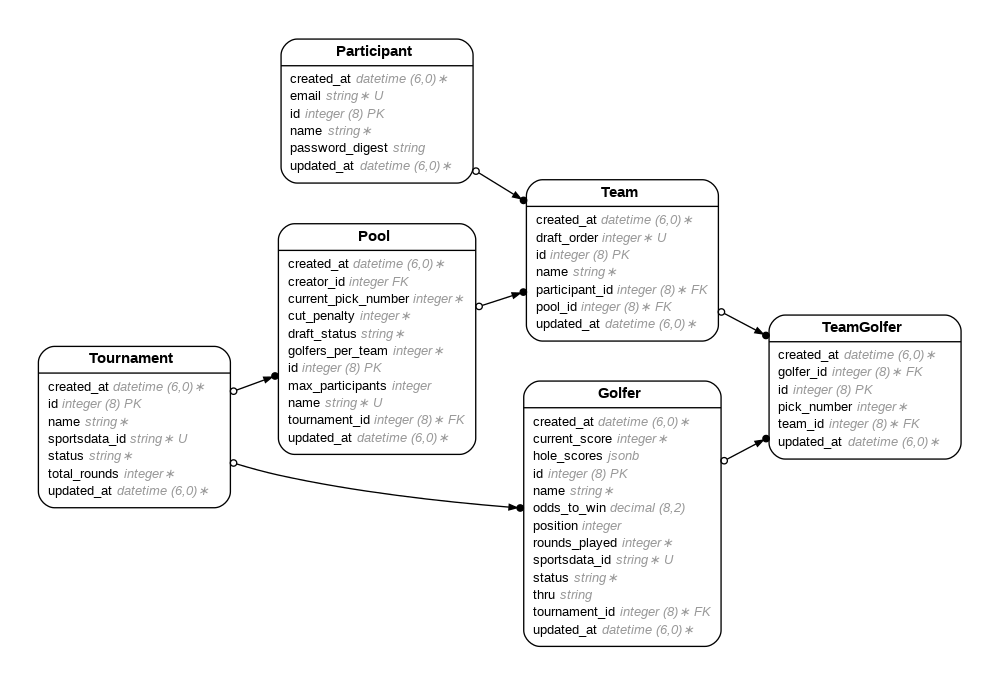
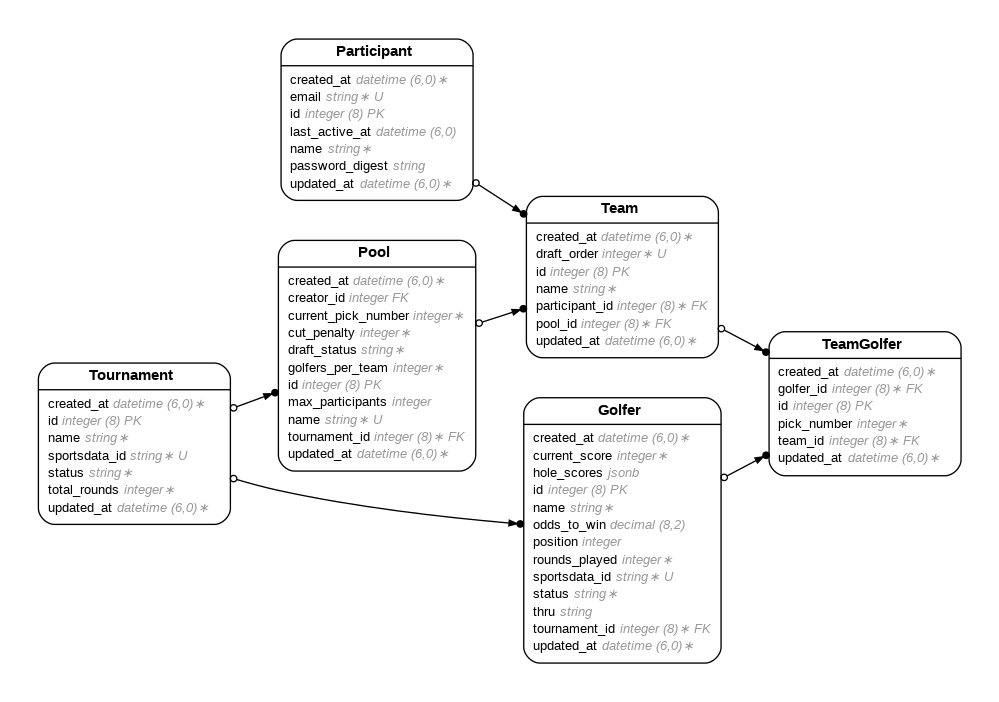
added autodraft

diff --git a/app/models/pool.rb b/app/models/pool.rb
@@ -51,7 +51,7 @@ class Pool < ApplicationRecord
   def current_draft_team
     return nil unless draft_status == "drafting"
 
-    ordered_teams = teams.to_a
+    ordered_teams = teams.sort_by(&:draft_order)
     n = ordered_teams.size
     total_picks = n * golfers_per_team
     return nil if current_pick_number > total_picks
@@ -82,4 +82,37 @@ class Pool < ApplicationRecord
   end
 
   def draft_complete? = draft_status == "complete"
+
+  # Auto-draft for every consecutive offline participant starting from the
+  # current pick. Stops when an online participant is up or the draft ends.
+  # "Online" = made a request within the last 2 minutes.
+  def auto_draft_while_offline!
+    reload
+    loop do
+      team = current_draft_team
+      break if team.nil?
+      participant = team.participant.reload
+      break if participant.last_active_at.present? &&
+               participant.last_active_at > 2.minutes.ago
+
+      best = best_available_golfer
+      break if best.nil?
+
+      TeamGolfer.create!(
+        team:        team,
+        golfer:      best,
+        pick_number: current_pick_number
+      )
+      advance_pick!
+    end
+  end
+
+  private
+
+  def best_available_golfer
+    Golfer.where(tournament: tournament)
+          .where.not(id: drafted_golfer_ids)
+          .order(Arel.sql("odds_to_win ASC NULLS LAST, position ASC NULLS LAST"))
+          .first
+  end
 end

diff --git a/db/schema.rb b/db/schema.rb
@@ -10,7 +10,7 @@
 #
 # It's strongly recommended that you check this file into your version control system.
 
-ActiveRecord::Schema[8.0].define(version: 2026_04_08_204115) do
+ActiveRecord::Schema[8.0].define(version: 2026_04_08_210918) do
   # These are extensions that must be enabled in order to support this database
   enable_extension "pg_catalog.plpgsql"
 
@@ -37,6 +37,7 @@ ActiveRecord::Schema[8.0].define(version: 2026_04_08_204115) do
     t.datetime "created_at", null: false
     t.datetime "updated_at", null: false
     t.string "password_digest"
+    t.datetime "last_active_at"
     t.index ["email"], name: "index_participants_on_email", unique: true
   end
 

diff --git a/app/controllers/draft_controller.rb b/app/controllers/draft_controller.rb
@@ -47,6 +47,7 @@ class DraftController < ApplicationController
     )
     @pool.advance_pick!
 
+    @pool.auto_draft_while_offline!
     broadcast_draft_update(@pool)
 
     redirect_to pool_draft_path(@pool)
@@ -64,7 +65,7 @@ class DraftController < ApplicationController
           .by_position
   end
 
-  # Pushes updated partials to every browser subscribed to this pool's draft channel.
+# Pushes updated partials to every browser subscribed to this pool's draft channel.
   def broadcast_draft_update(pool)
     next_team = pool.current_draft_team
 

diff --git a/app/controllers/application_controller.rb b/app/controllers/application_controller.rb
@@ -1,10 +1,16 @@
 class ApplicationController < ActionController::Base
   helper_method :current_user, :logged_in?
 
+  before_action :touch_last_active_at
+
   private
 
   def current_user
     @current_user ||= Participant.find_by(id: session[:participant_id]) if session[:participant_id]
+  end
+
+  def touch_last_active_at
+    current_user&.update_columns(last_active_at: Time.current)
   end
 
   def logged_in?

diff --git a/app/controllers/pools_controller.rb b/app/controllers/pools_controller.rb
@@ -101,6 +101,8 @@ class PoolsController < ApplicationController
       @pool.update!(draft_status: "drafting")
     end
 
+    @pool.auto_draft_while_offline!
+
     redirect_to pool_draft_path(@pool), notice: "Draft started! Good luck."
   rescue ActiveRecord::RecordInvalid => e
     redirect_to root_path, alert: e.message

diff --git a/app/models/participant.rb b/app/models/participant.rb
@@ -4,6 +4,7 @@
 #
 #  id              :bigint           not null, primary key
 #  email           :string           not null
+#  last_active_at  :datetime
 #  name            :string           not null
 #  password_digest :string
 #  created_at      :datetime         not null

diff --git a/db/migrate/20260408210918_add_last_active_at_to_participants.rb b/db/migrate/20260408210918_add_last_active_at_to_participants.rb
@@ -1,0 +1,5 @@
+class AddLastActiveAtToParticipants < ActiveRecord::Migration[8.0]
+  def change
+    add_column :participants, :last_active_at, :datetime
+  end
+end
